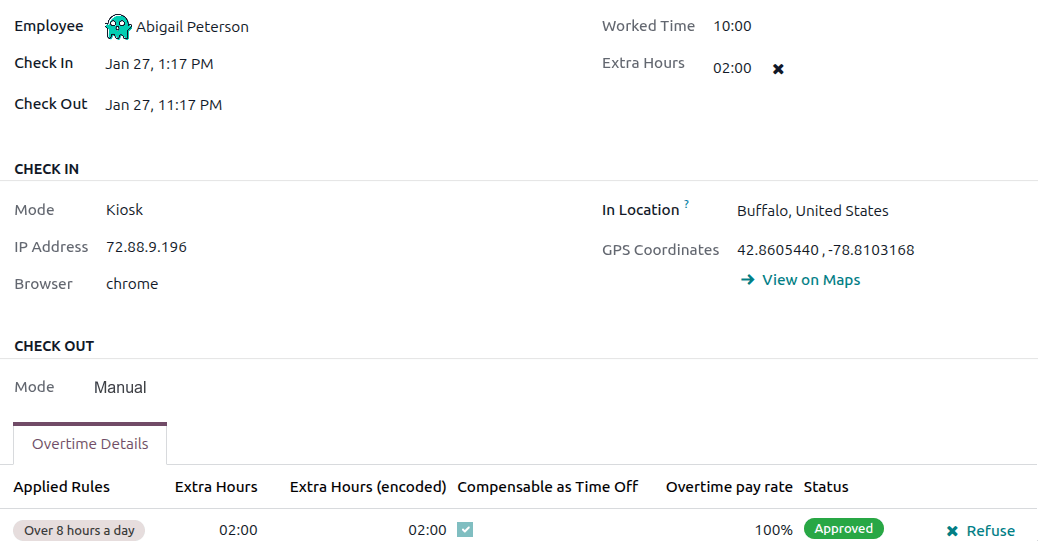
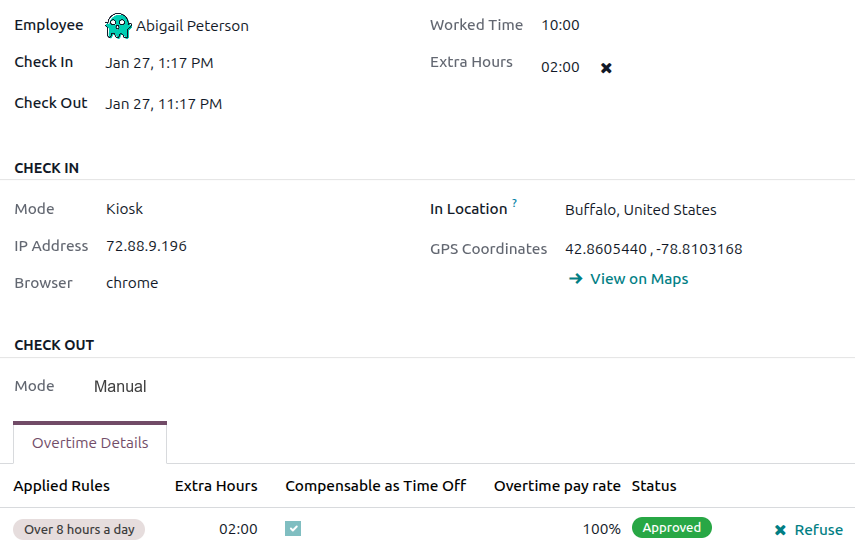
[IMP] Attendances: Partial Overtime Feature does not exist

diff --git a/content/applications/hr/attendances/management.rst b/content/applications/hr/attendances/management.rst
@@ -5,7 +5,7 @@ Work approvals and overtime
 Odoo's **Attendances** app requires management oversight in order to ensure all logged attendances
 are correct, especially overtime hours and incomplete shifts.
 
-.. _attendances/dashboard:
+.. _attendances/management/dashboard:
 
 Management dashboard
 ====================
@@ -30,50 +30,56 @@ Each attendance record displays the following information:
 .. image:: management/management-dashboard.png
    :alt: The Attendances app Management dashboard, displaying entries needing approval.
 
-.. _attendances/approve-refuse:
+.. _attendances/management/approve-refuse:
 
 Approvals and refusals
 ======================
 
 Attendance records can be approved and refused directly from the :ref:`Management dashboard
-<attendances/dashboard>`. At the far-right of each record, :icon:`fa-check` :guilabel:`Approve` and
-:icon:`fa-times` :guilabel:`Refuse` buttons appear. Click the corresponding button to either approve
-or refuse the logged attendance record.
+<attendances/management/approve-dashboard>`, or on the :ref:`individual attendance record
+<attendances/management/approve-individual>`.
+
+.. _attendances/management/approve-dashboard:
+
+From the dashboard
+------------------
+
+On the :ref:`Management dashbaord <attendances/management/dashboard>`, :icon:`fa-check`
+:guilabel:`Approve` and :icon:`fa-times` :guilabel:`Refuse` buttons appear at the end of each
+attendane record.
+
+Click the corresponding button to either approve or refuse the attendance record.
 
 .. note::
-   When approving or refusing attendance records from the :guilabel:`Management` dashboard, it is
-   **not** possible to view the details of the attendance record.
+   When approving or refusing attendance records from the *Management* dashboard, it is **not**
+   possible to view the details of the attendance record.
 
-Partial approvals
------------------
+.. _attendances/management/approve-individual:
 
-It is possible to approve a portion of the logged :guilabel:`Extra Hours` and not the full amount.
-To approve only a portion of overtime, click into an attendance record to view the details.
+From the individual record
+--------------------------
+
+To approve individual attendance records, click the record on the :ref:`Management dashbaord
+<attendances/management/dashboard>` and the detailed attendance log loads.
 
 The top half of the record displays the specific check in and check out details, including the
-method used. The :guilabel:`Check In` and :guilabel:`Check Out` information in the top half of the
-form can be modified, if needed. Click into the desired field, and make any needed changes.
+method used. The bottom half of the form contains the *Overtime Details* tab. This tab lists the
+overtime rules used to calculate the extra hours, along with the pay rate and status.
 
-The bottom half of the form contains the *Overtime Details* tab. This tab lists the overtime rules
-used to calculate the extra hours, along with the pay rate and status. The extra hours listed in
-this tab can be modified, allowing for partial overtime approval.
+Click the :icon:`fa-check` :guilabel:`(Approve)` icon at the end of the :guilabel:`Validated Extra
+Hours` field in the top-half of the form, or click :icon:`fa-check` :guilabel:`Approve` in the
+*Overtime Details* tab.
 
-Click into the :guilabel:`Extra Hours (encoded)` field of the line being modified. Enter the amount
-of hours being approved in an `HH:MM` format, then click :icon:`fa-check` :guilabel:`Approve` at the
-end of the line.
+ After approving the record, the status changes to :guilabel:`Approved`'
 
-.. image:: management/record.png
-   :alt: A detailed attendance record.
-
-After editing and approving the :guilabel:`Extra Hours (encoded)` field, the status changes to
-:guilabel:`Approved`, and the :guilabel:`Extra Hours` field in the top half of the form updates to
-display the approved overtime.
+.. image:: management/individual.png
+   :alt: An individual attendance record where overtime cna be approved or refused.
 
 .. important::
-   Once partial overtime is approved, it is still possible to deny overtime by clicking the
-   :icon:`fa-times` icon next to the :guilabel:`Extra Hours` field in the top half of the form, or
-   clicking :icon:`fa-times` :guilabel:`Refuse` at the end of the overtime entry in the *Overtime
-   Details* tab.
+   Once overtime is approved, it is still possible to deny overtime by clicking the :icon:`fa-times`
+   icon next to the :guilabel:`Validated Extra Hours` field in the top half of the form, or clicking
+   :icon:`fa-times` :guilabel:`Refuse` at the end of the overtime entry in the *Overtime Details*
+   tab.
 
 .. note::
    Occasionally, verifying an employee's location when checking-in may be needed. The method the
@@ -99,17 +105,15 @@ Some companies allow for the conversion of overtime into time off. To convert al
 overtime into time off, navigate to :menuselection:`Attendances app --> Management`. Click on the
 desired attendance record to view the specific attendance details.
 
-In the *Overtime Details* tab, adjust the amount of overtime being converted to time off in the
-:guilabel:`Extra Hours (encoded)` field, if necessary. Next, click the checkbox in the
-:guilabel:`Compensable as Time Off` column, indicating the overtime should be converted to time off.
-Click :icon:`fa-check` :guilabel:`Approve` at the end of the line, and the status changes to
-:guilabel:`Approved`, and the :guilabel:`Extra Hours` field in the top half of the form updates to
-reflect the approved overtime.
+In the *Overtime Details* tab, click the checkbox in the :guilabel:`Compensable as Time Off` column,
+indicating the overtime should be converted to time off. Click :icon:`fa-check` :guilabel:`Approve`
+at the end of the line, and the status changes to :guilabel:`Approved`, and the :guilabel:`Extra
+Hours` field in the top half of the form updates to reflect the approved overtime.
 
 .. image:: management/convert-time-off.png
    :alt: An attendance record with 2 ours of overtime converted to time off.
 
-.. _attendances/create-records:
+.. _attendances/management/create-records:
 
 Create attendance records
 =========================
@@ -131,8 +135,9 @@ window. Enter the following information on the form, then click :guilabel:`Save 
   :guilabel:`Apply`. By default, the following date is selected, and the time is set to `12:00:AM`.
 - :guilabel:`Worked Time`: This field is automatically populated with the difference from the
   selected :guilabel:`Check In` and :guilabel:`Check Out` times. This field **cannot** be modified.
-- :guilabel:`Extra Hours`: This field is *not* modifiable as overtime must be :ref:`approved
-  <attendances/approve-refuse>`. This field displays zero (`00:00`) by default.
+- :guilabel:`Validated Extra Hours`: This field is *not* modifiable as overtime must be
+  :ref:`approved <attendances/management/approve-refuse>`. This field displays zero (`00:00`) by
+  default.
 
 .. image:: management/new-record.png
    :alt: An Attendances app record form, filled out for Mike Smith for January 27, 2026.
